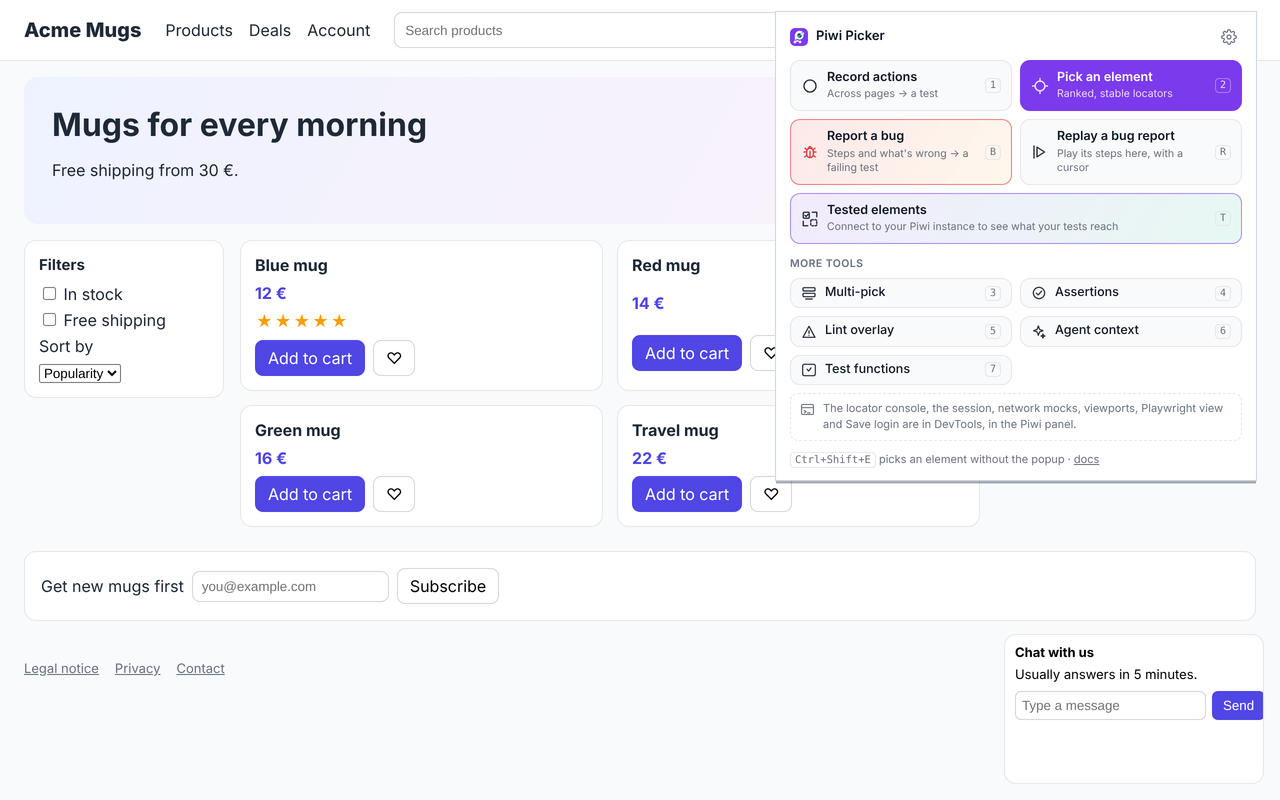
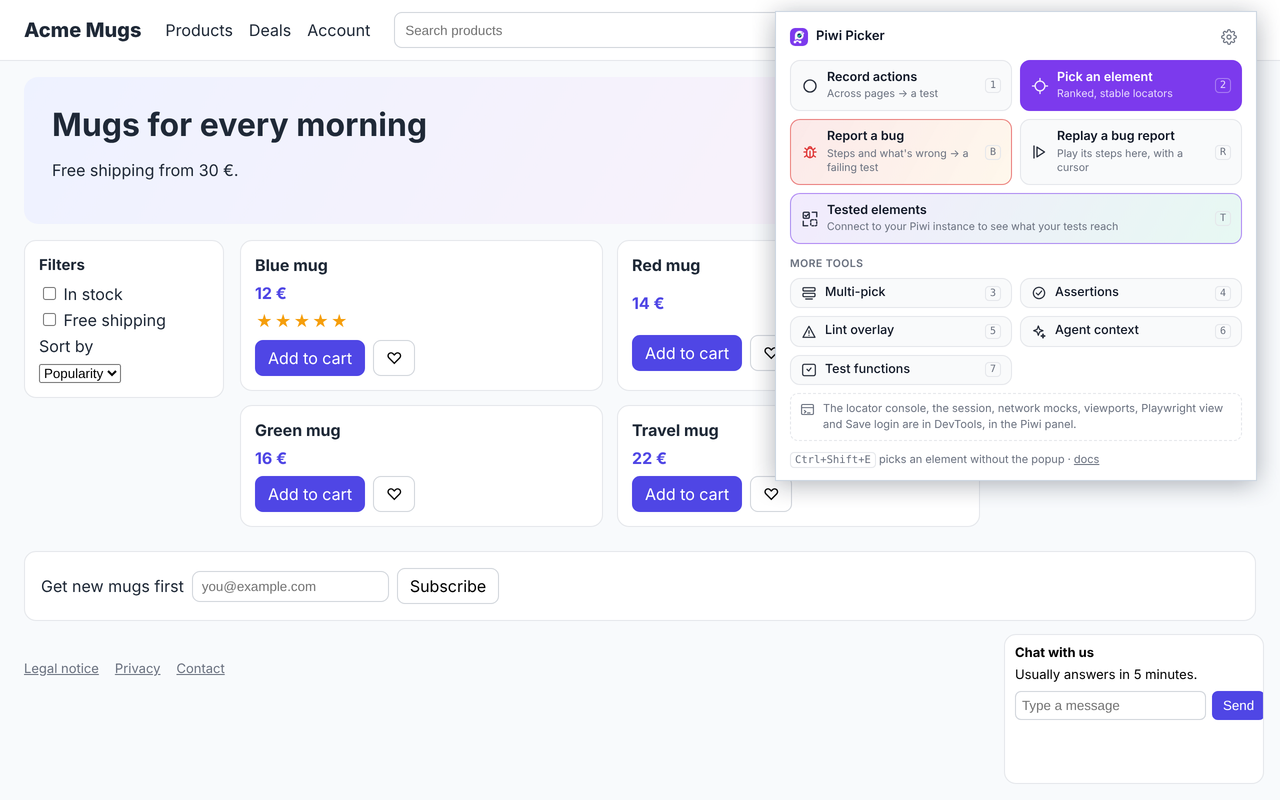
fix(docs): take up the review of the landing-page refresh
The popup's shadow is blurred in a pipeline of its own, since sharp
blurs before it composites, and the capture is retaken. The DevTools
pane's capture, 880 pixels wide, joins the Developer tools page, and
the store notes name the four images at the stores' size. The
positioning line reads the same on every surface, with a comma where
the em dash was, the README and the Docker Hub page included.

The JetBrains script answers the license dialog inside its wait, so a
first run with --start-trial reaches the project before a scene runs,
takes the stub's first request as the sign the editor service is up,
reports a child that fails to start or exits, refuses an unknown scene
name, and writes the probe's capture to the temp directory; the VS Code
script does the same for a failed scene's capture and an unknown name,
and the fixture answers 404 for a screenshot it cannot read. The new
files spell license the American way, as the repository does.

Claude-Session: https://claude.ai/code/session_011jEQ25YUeABeJjzFVNvhsj

Changed region(s): [[0.5938, 0.0312, 0.9688, 0.625], [0.9688, 0.0312, 1.0, 0.5938], [0.625, 0.0, 0.9688, 0.0312]]

diff --git a/apps/extension/tests/e2e/docs-screenshots.spec.ts b/apps/extension/tests/e2e/docs-screenshots.spec.ts
@@ -15,9 +15,11 @@ import { stubChromeStorage } from './recording-stub.js';
  * `PIWI_DOCS_SHOTS=1`; recapture with
  * `PIWI_DOCS_SHOTS=1 npm run extension:test:e2e -- docs-screenshots`.
  *
- * Every image is a 1280 × 800 viewport captured at 2× and written at 1280 px
- * wide, the size the stores take and the docs show; the harness in
- * `apps/application/scripts/take-feature-screenshots.mjs` lists them as
+ * The store images (`picker-pick`, `picker-popup`, `picker-lint`,
+ * `picker-record`) are a 1280 × 800 viewport captured at 2× and written at
+ * 1280 px wide, the size the stores take; the overlay and the DevTools pane
+ * are the docs' alone, at their own sizes. The harness in
+ * `apps/application/scripts/take-feature-screenshots.mjs` lists them all as
  * external so `--check` leaves them alone.
  */
 
@@ -99,20 +101,19 @@ test('picker-popup', async ({ context, extensionId }) => {
   const margin = 24;
   const left = canvas.width - width - margin * 2;
   const top = margin;
-  const shadow = await sharp({
-    create: { ...canvas, channels: 4, background: { r: 0, g: 0, b: 0, alpha: 0 } },
+  // The shadow's rectangle composited on a transparent canvas, then blurred in a second pipeline: sharp blurs
+  // before it composites in one.
+  const rectangle = await sharp({
+    create: { width, height, channels: 4, background: { r: 15, g: 23, b: 42, alpha: 0.35 } },
   })
-    .composite([
-      {
-        input: await sharp({
-          create: { width, height, channels: 4, background: { r: 15, g: 23, b: 42, alpha: 0.35 } },
-        })
-          .png()
-          .toBuffer(),
-        left,
-        top: top + 8,
-      },
-    ])
+    .png()
+    .toBuffer();
+  const shadow = await sharp(
+    await sharp({ create: { ...canvas, channels: 4, background: { r: 0, g: 0, b: 0, alpha: 0 } } })
+      .composite([{ input: rectangle, left, top: top + 8 }])
+      .png()
+      .toBuffer(),
+  )
     .blur(28)
     .png()
     .toBuffer();

diff --git a/apps/application/nuxt.config.ts b/apps/application/nuxt.config.ts
@@ -14,7 +14,7 @@ const isDemo = process.env.PIWI_DEMO_MODE === 'true';
 // Static head description for the demo shell — same wording as the docs
 // site's og: cards (apps/docs/.vitepress/config.mts).
 const demoDescription =
-  'CI throws away every report it makes. Piwi keeps them — then groups failures by root cause, scores flaky tests, and finds the locator you should have used. Self-hosted, zero telemetry.';
+  'CI throws away every report it makes. Piwi keeps them, then groups the failures by root cause, scores the flaky tests, and finds the locator you should have used. Self-hosted, zero telemetry.';
 
 // The dashboard version is authoritative in `application/package.json`
 // (kept in sync across the monorepo by release-please) — read it once at

diff --git a/apps/application/shared/piwi-ecosystem.ts b/apps/application/shared/piwi-ecosystem.ts
@@ -19,7 +19,7 @@ export const POSITIONING = {
   name: 'Piwi',
   tagline: 'Your Playwright results, kept and explained.',
   summary:
-    'CI throws away every report it makes. Piwi keeps them — then groups the failures by root cause, scores the flaky tests, and finds the locator you should have used. Self-hosted, zero telemetry.',
+    'CI throws away every report it makes. Piwi keeps them, then groups the failures by root cause, scores the flaky tests, and finds the locator you should have used. Self-hosted, zero telemetry.',
 } as const;
 
 const REPOSITORY = 'https://github.com/piwitests/platform';

diff --git a/proposals/real-editor-checks.md b/proposals/real-editor-checks.md
@@ -19,7 +19,7 @@ VS Code and JetBrains scripts prove, on every run, that the built plugin loads i
 service, connects to an instance, and draws its failures, its quick fixes and its summaries. They assert none of it:
 they wait for the moment to capture and write an image. The plugins' automated checks remain the in-process ones
 (section 5). A check in the real editor is within reach for VS Code and costly for the JetBrains IDEs, mostly because
-of the licence; both are deferred (section 6).
+of the license; both are deferred (section 6).
 
 ## 1. What exists
 
@@ -78,15 +78,15 @@ All of it verified on WebStorm 2026.2.3 (build 262.10968.77), the release curren
   `<laf themeId="ExperimentalDark" />` is the new UI's dark theme. `-Dawt.useSystemAAFontSettings=lcd` keeps the
   text crisp.
 - **Startup markers in `idea.log`.** `Project frame set to` once the project window shows; `License required` when
-  the licence dialog is up. Once the system directory holds the indexes, a launch reaches the project frame in about
+  the license dialog is up. Once the system directory holds the indexes, a launch reaches the project frame in about
   ten seconds; the first launch on a fresh system directory takes about a minute, and the first diagnostics of the
   plugin another thirty to forty seconds after the frame.
 
-### The licence
+### The license
 
-- **A release asks for a licence** at the first start on a config directory without one, in a dialog with three
+- **A release asks for a license** at the first start on a config directory without one, in a dialog with three
   tabs: *Free non-commercial use* (a JetBrains account is required to log in), *Paid license* (subscription,
-  activation code, licence server) and *Start trial*. **Start trial** claims a 30-day trial of the IDE with an
+  activation code, license server) and *Start trial*. **Start trial** claims a 30-day trial of the IDE with an
   internet connection and nothing else: no account, no form. The trial is written as `<config>/webstorm.key`, and the
   IDE starts licensed from then on. The 2024.1 release shows the same tab. An EAP build has no trial: it asks for a
   JetBrains account, so it cannot serve a script.
@@ -95,7 +95,7 @@ All of it verified on WebStorm 2026.2.3 (build 262.10968.77), the release curren
   trial only when asked (`--start-trial`), by clicking the tab and the button at their places in the 1440 × 900
   window; `--config <dir>` copies an activated IDE's config directory in instead.
 - **The trial is bound to the machine through `user.home`.** Pointing the Java property `user.home` elsewhere (tried
-  so the project view would show `~/acme-mugs` rather than the temporary path) brought the licence dialog back on the
+  so the project view would show `~/acme-mugs` rather than the temporary path) brought the license dialog back on the
   next start, `License required` in the log, the key file still in place. The script does not touch `user.home`; the
   failures scene hides the project view instead.
 - **The trial's balloon**, "Free trial has started. 30 days left", is not a notification: it is a *got it* tooltip
@@ -198,7 +198,7 @@ Verified on VS Code 1.143.0, the stable build `@vscode/test-electron` downloaded
   API the extension's `activate` returns. No DOM: what the workbench draws is not checked.
 - **JetBrains** (`apps/jetbrains/`): platform tests on `BasePlatformTestCase` (`PiwiPluginTest`, `GlueTest`,
   `OpenOriginsTest`, `PiwiRecordingTest`, `Lsp4jAccessTest`) that start the language server from `dist/` in the test
-  IDE, headless, with no licence involved. What the IDE draws (the tool window, the intentions, Code Vision, the
+  IDE, headless, with no license involved. What the IDE draws (the tool window, the intentions, Code Vision, the
   status bar) is not checked.
 - **The screenshot scripts** add, by hand and without assertions, the one thing the above cannot: the built plugin in
   the real product, with the real LSP client and the real UI. A run that reaches its captures is evidence that the
@@ -220,33 +220,34 @@ assertions:
 - the status bar item shows the counts;
 - the Code Lens lines above the locators and the application file name the tests behind them.
 
-Cost: a Playwright config in `apps/vscode/tests/e2e/`, the launcher of the script moved to a shared module, Xvfb in
-the workflow, the VS Code download cached (about 100 MB, `@vscode/test-electron` caches it). A run is one to two
+Cost: a Playwright config in `apps/vscode/tests/e2e/`, the launcher of the script moved to a shared module, the stub
+instance of `tests/integration/run.mjs` (a second copy of the fixture's, with fewer routes) folded into the fixture
+module, Xvfb in the workflow, the VS Code download cached (about 100 MB, `@vscode/test-electron` caches it). A run is one to two
 minutes. Risk: the workbench's DOM (class names, the quick input's rows) changes across VS Code versions, where the
 integration suite's public commands do not; the suite should pin the VS Code version it downloads and move it on
 purpose.
 
-### JetBrains: costly, mainly for the licence
+### JetBrains: costly, mainly for the license
 
 There is no DOM. Three ways to assert, from the cheapest:
 
 1. **The IDE's log and the service's traffic.** The current script can check, after a launch, that `idea.log` holds
    the plugin's start, the editor service's start and no error from the plugin, and the stub can record which routes
-   the service read. This proves loading and connection, not what is drawn. It needs the trial or a licence, like the
+   the service read. This proves loading and connection, not what is drawn. It needs the trial or a license, like the
    captures.
 2. **The IntelliJ Platform's integration test framework**: the IDE Starter with the Driver API, which the
    IntelliJ Platform Gradle plugin exposes as `TestFrameworkType.Starter` (present in the 2.19.0 the build uses). It
    downloads an IDE, installs the plugin,
    opens a project and asserts on UI components (tool windows, editor text, popups) rather than pixels. This is the
-   framework JetBrains documents for UI tests. It brings its own IDE download, the same licence constraint, and a
+   framework JetBrains documents for UI tests. It brings its own IDE download, the same license constraint, and a
    run of several minutes.
 3. **Pixels.** Comparing the captures with references. Fonts, hints and timing make this brittle; not recommended.
 
-The licence is the real cost. A trial is one per IDE version per machine for 30 days; a runner that is a fresh
+The license is the real cost. A trial is one per IDE version per machine for 30 days; a runner that is a fresh
 machine every time could claim one on each run, which is not what the trial is for, and a persistent runner runs out
-after a month. The proper way is a licence in the workflow's secrets (a key, or a licence server): JetBrains grants
-free licences to open-source projects, and whether a fair-source project (FSL-1.1-MIT) qualifies is not established.
-Until a licence exists, a real-IDE check is a job run by hand or nightly on a machine someone activates, not a check
+after a month. The proper way is a license in the workflow's secrets (a key, or a license server): JetBrains grants
+free licenses to open-source projects, and whether a fair-source project (FSL-1.1-MIT) qualifies is not established.
+Until a license exists, a real-IDE check is a job run by hand or nightly on a machine someone activates, not a check
 on every pull request.
 
 ## 7. Decisions
@@ -255,7 +256,7 @@ on every pull request.
 |---|----------|
 | D1 | **No continuous check in the real editors for now.** The three pipelines stay what they are: the way to recapture the illustrations, documented in `apps/docs/AGENTS.md` (Marketing screenshots), `apps/vscode/AGENTS.md` and `apps/jetbrains/AGENTS.md` (Screenshots), and run by hand before a release that changes what the editors show. |
 | D2 | **The plugins' verification stays in-process**: the editor service's unit tests, VS Code's unit and integration suites, the JetBrains platform tests. A change to what an editor draws is checked by recapturing and looking. |
-| D3 | **When a real-editor check is wanted, VS Code comes first**, as a Playwright suite over the screenshot launcher, nightly rather than per pull request. The JetBrains IDEs follow through the Starter framework once a licence for CI exists. |
+| D3 | **When a real-editor check is wanted, VS Code comes first**, as a Playwright suite over the screenshot launcher, nightly rather than per pull request. The JetBrains IDEs follow through the Starter framework once a license for CI exists. |
 | D4 | **The facts above are the reference** for anyone touching the pipelines; a finding that changes (a property renamed, a dialog moved) is corrected here and in the script's header together. |
 
 ## Not in this plan
@@ -269,7 +270,7 @@ on every pull request.
 
 ## Open questions
 
-- A licence for CI: which kind (key or licence server), from which programme, and where it is kept.
+- A license for CI: which kind (key or license server), from which programme, and where it is kept.
 - Whether the Starter framework runs in the 2024.1 the Gradle build targets or needs the build's platform version
   raised.
 - Whether the VS Code suite should drive the stable `@vscode/test-electron` download or the Insiders build the

diff --git a/apps/extension/PUBLISHING.md b/apps/extension/PUBLISHING.md
@@ -34,7 +34,7 @@ Both are gitignored; regenerate them together whenever you need a fresh pair rat
 Live at <https://chromewebstore.google.com/detail/piwi-picker/pakhnokpjboejcghgcmkjlpnogfjihhe>. The steps below are kept because every version bump repeats them (step 1 onwards, minus the listing fields you don't change).
 
 1. Dashboard → **New item** → upload the zip.
-2. Store listing requires: description (the text of `store/amo-description.en.md`), at least one 1280×800 or 640×400 screenshot (the `picker-*.png` images of `apps/docs/public/screenshots/`, captured at that size by `tests/e2e/docs-screenshots.spec.ts`), a 128×128 icon (already have it), category (Developer Tools), and a **privacy practices** disclosure. Picking and recording are zero-telemetry/zero-network by default; the one exception is the optional Piwi-instance connection (`options.html`), which — only if the user configures it — sends the API key and a project id (one per configured URL-pattern → project mapping) to fetch that project's function catalog, and nothing else (no recorded data, no browsing history). State both halves plainly rather than only the standalone claim.
+2. Store listing requires: description (the text of `store/amo-description.en.md`), at least one 1280×800 or 640×400 screenshot (`picker-pick.png`, `picker-popup.png`, `picker-lint.png` and `picker-record.png` of `apps/docs/public/screenshots/`, captured at that size by `tests/e2e/docs-screenshots.spec.ts`; `picker-devtools.png` is the docs' own, smaller), a 128×128 icon (already have it), category (Developer Tools), and a **privacy practices** disclosure. Picking and recording are zero-telemetry/zero-network by default; the one exception is the optional Piwi-instance connection (`options.html`), which — only if the user configures it — sends the API key and a project id (one per configured URL-pattern → project mapping) to fetch that project's function catalog, and nothing else (no recorded data, no browsing history). State both halves plainly rather than only the standalone claim.
 3. Permission justification: Chrome's review form asks you to justify each requested permission in plain English. For `activeTab`/`scripting`/`storage`, reuse the exact wording already in `apps/docs/extension.md`'s permissions table — it's already accurate and honest. `optional_host_permissions` needs its own explanation since the two patterns (`http://*/*`, `https://*/*`) look broad on their own: say plainly that this is declared so the extension *can* request a single origin, on demand, only when the user clicks "Record actions" inside that click's own gesture — nothing is granted at install, and the grant is scoped to whichever one site the user is recording, never `<all_urls>` in practice. Reviewers specifically look for this "declared broad, granted narrow, user-gestured" pattern with optional host permissions — state it explicitly rather than assuming the manifest speaks for itself. The instance origin the settings page asks for at **Connect** also carries one content script, registered for that origin only while connected: it sets `data-piwi-picker` (the extension's version) on the instance's pages so the dashboard stops suggesting the extension, reads nothing from the page and sends nothing. If a reviewer asks about `devtools_page`: it adds a pane to DevTools that ranks the element selected there, reads the inspected page only while DevTools is open, and sends nothing anywhere; on a site it has no grant for, it asks for that one origin through the same optional host permission, inside a click. Its Network tab reads the page's requests through `chrome.devtools.network`, only while DevTools is open, keeps them in memory and sends them nowhere: a request's body leaves the browser only as the mock code the user copies or downloads, with credential fields hidden by default. Slow down or fail a request registers a script in the page's main world (as the bug report's evidence script does, under the same one-origin grant, asked for in the click) that delays or fails the page's own `fetch` and XHR calls in that one tab, until the user turns it off; it reads nothing and sends nothing. The privacy answers stay as they are (no data collected, nothing sent to the developer).
 
    `debugger` is a required permission: Chrome does not let it be optional (checked on Chromium: an `optional_permissions` entry cannot be requested). It shows an install warning ("Read and change all your data on all websites"), and the update that added it disabled the extension until each user accepted the new warning, a cost taken on 2026-09-28 while the extension had few users. Justification, in plain words: Piwi Picker attaches Chrome's debugging protocol to one tab, only while a feature the user started needs it, and detaches as soon as it ends; Chrome shows its own "Piwi Picker started debugging this browser" bar the whole time, and **Cancel** on it makes the feature fall back to working without it. The features: a replay of a bug report sends trusted mouse and keyboard input to the replayed tab, as Playwright does (`Input` domain); a bug report being recorded reads that tab's console, uncaught errors, failed requests (method, URL without query values, status, never a header or a body) and screenshots (`Runtime`, `Log`, `Network`, `Page.captureScreenshot`); and the DevTools panel slows down or fails the tab's requests, throttles its network and CPU, and sets its viewport (`Fetch`, `Network.emulateNetworkConditions`, `Emulation`), until the user turns that off. Nothing read through it leaves the machine: a bug report is sent to the user's own Piwi instance only from its preview, as before. The privacy answers stay as they are. On AMO nothing changes: Firefox has no `chrome.debugger`, its manifest does not ask for the permission, and every feature there works as it did without it.
@@ -96,7 +96,7 @@ Expect 0 errors. The warnings it leaves are known: `service_worker` ignored by F
 | Description | `store/amo-description.<code>.md`, one per language (AMO's Markdown subset: bold, italic, links, lists; no headings) |
 | Add-on URL, category, support website, license, experimental, payment, platforms | `store/amo-listing.json` (`piwi-picker`, Web Development, the GitHub issues page, MIT, no, no, Firefox desktop only) |
 | Notes to reviewer | `store/amo-reviewer-notes.md`: source build, network use, permissions, the `innerHTML` warnings, how to test |
-| Screenshots | not pre-fillable: upload the `picker-*.png` images of `apps/docs/public/screenshots/` (1280 × 800, the size every store takes) in the listing editor; `PIWI_DOCS_SHOTS=1 npm run extension:test:e2e -- docs-screenshots` recaptures them |
+| Screenshots | not pre-fillable: upload `picker-pick.png`, `picker-popup.png`, `picker-lint.png` and `picker-record.png` of `apps/docs/public/screenshots/` (1280 × 800, the size every store takes; `picker-devtools.png` is the docs' own, smaller) in the listing editor; `PIWI_DOCS_SHOTS=1 npm run extension:test:e2e -- docs-screenshots` recaptures them |
 
 `npm run extension:zip` merges all of it into `piwi-picker-v<version>-amo-metadata.json`, in the shape AMO's add-on API takes. A new language is one more `public/_locales/<lang>/` directory plus `store/amo-description.<lang>.md`; `tests/unit/store-listing.test.ts` checks every language has both, and that each summary stays within 132 characters, the Chrome Web Store's limit.
 

diff --git a/apps/jetbrains/AGENTS.md b/apps/jetbrains/AGENTS.md
@@ -243,12 +243,12 @@ uploaded by hand from them). It starts an Xvfb display and, for each scene, laun
 editor focused (the editor state of a pre-written `workspace.xml` is not restored on a fresh project). The keys a
 scene needs go through `scripts/xinput.py` (XTEST), through the shortcuts of a keymap the script writes where the
 IDE's actions have none (the Piwi tool window, the notifications), and ImageMagick's `import` captures the screen.
-The IDE's config directory stays in `.ide/config` across runs because the licence lives there: on a machine without
-one, the IDE shows its licence dialog, and `--start-trial` answers its Start trial tab, which claims the release's
+The IDE's config directory stays in `.ide/config` across runs because the license lives there: on a machine without
+one, the IDE shows its license dialog, and `--start-trial` answers its Start trial tab, which claims the release's
 30-day trial with no account (an internet connection suffices; a version's trial is claimed once per machine);
 `--config` copies an activated IDE's config directory in instead. An EAP build asks for a JetBrains account, so it
 cannot serve. `--ide` names another installed release, `--probe` captures the IDE as it stands without driving it,
-and `--keep` leaves the run's directory with the IDE's logs. What was found about the IDE on the way (the licence,
+and `--keep` leaves the run's directory with the IDE's logs. What was found about the IDE on the way (the license,
 the launcher, the properties that keep it quiet, what a check in the real IDE would need) is recorded in
 [`proposals/real-editor-checks.md`](../../proposals/real-editor-checks.md).
 

diff --git a/apps/docs/features/devtools.md b/apps/docs/features/devtools.md
@@ -25,6 +25,11 @@ getByTestId('apply-coupon')                        ✓ unique · stable
 locator('.btn').nth(2)                             ✓ unique by position · brittle: position, CSS class
 ```
 
+<figure>
+  <img src="/screenshots/picker-devtools.png" alt="The Piwi pane in the Elements sidebar: the selected button's three locators, ranked, the test id first">
+  <figcaption>The pane for a selected button: each locator checked against the page, copied as a locator, an action or an assertion.</figcaption>
+</figure>
+
 A locator that finds the node among others says how many it finds. Under each one, **Locator**, **Action** and
 **Assertion** copy it as `page.…`, as a `click()` or as an `expect(…).toBeVisible()`, and **Add to session** puts it
 in the session under a name (the panel's Session tab, below). The pane ranks again when the selection changes and after

diff --git a/DOCKER_HUB.md b/DOCKER_HUB.md
@@ -1,6 +1,6 @@
 # Piwi Dashboard
 
-**Your Playwright results, kept and explained.** CI throws away every report it makes. Piwi keeps them, every run, trace and HTML report, then groups the failures by root cause, scores the flaky tests, and finds the locator you should have used. Self-hosted, zero telemetry.
+**Your Playwright results, kept and explained.** CI throws away every report it makes. Piwi keeps them, then groups the failures by root cause, scores the flaky tests, and finds the locator you should have used. Self-hosted, zero telemetry.
 
 📖 [Documentation](https://piwitests.dev) · 🎮 [Live demo](https://piwitests.dev/demo/) · 🚀 [Deployment guide](https://piwitests.dev/operate/deployment) · 💬 [Source and releases on GitHub](https://github.com/PiwiTests/platform)
 

diff --git a/apps/docs/AGENTS.md b/apps/docs/AGENTS.md
@@ -308,7 +308,7 @@ reproducible as the UI moves.
 
 Three illustrations come from other pipelines, and the harness's `--check` leaves them alone (`EXTERNAL_DOCS_IMAGES`
 and the `picker-`, `vscode-` and `jetbrains-` prefixes): the video poster above; the browser extension's
-(`picker-*.png`, `tested-elements-overlay.png`), written at 1280 × 800, the size the stores take, by
+(`picker-*.png` at 1280 × 800, the size the stores take, except the DevTools pane; `tested-elements-overlay.png` at 1400 × 900), by
 `PIWI_DOCS_SHOTS=1 npm run extension:test:e2e -- docs-screenshots` from `apps/extension/`; and the editor extensions'
 (`vscode-*.png`, `jetbrains-*.png`), written by
 `apps/vscode/scripts/take-screenshots.mjs` and `apps/jetbrains/scripts/take-screenshots.mjs`, which open one fixture

diff --git a/AGENTS.md b/AGENTS.md
@@ -238,7 +238,7 @@ other `curl` examples may stay bash-only. `.env` file contents are not shell com
 Piwi is not a product being sold. Copy is informative, specific and honest — never promotional. The project describes
 itself the same way everywhere:
 
-> **Your Playwright results, kept and explained.** CI throws away every report it makes. Piwi keeps them — then groups
+> **Your Playwright results, kept and explained.** CI throws away every report it makes. Piwi keeps them, then groups
 > the failures by root cause, scores the flaky tests, and finds the locator you should have used. Self-hosted,
 > zero telemetry.
 

diff --git a/README.md b/README.md
@@ -7,9 +7,8 @@
 
 <p align="center">
   <b>Your Playwright results, kept and explained.</b><br>
-  CI throws away every report it makes. Piwi keeps them, every run, trace and HTML report, then
-  groups the failures by root cause, scores the flaky tests, and finds the locator you should have
-  used. Self-hosted, zero telemetry.
+  CI throws away every report it makes. Piwi keeps them, then groups the failures by root cause,
+  scores the flaky tests, and finds the locator you should have used. Self-hosted, zero telemetry.
 </p>
 
 <p align="center">
